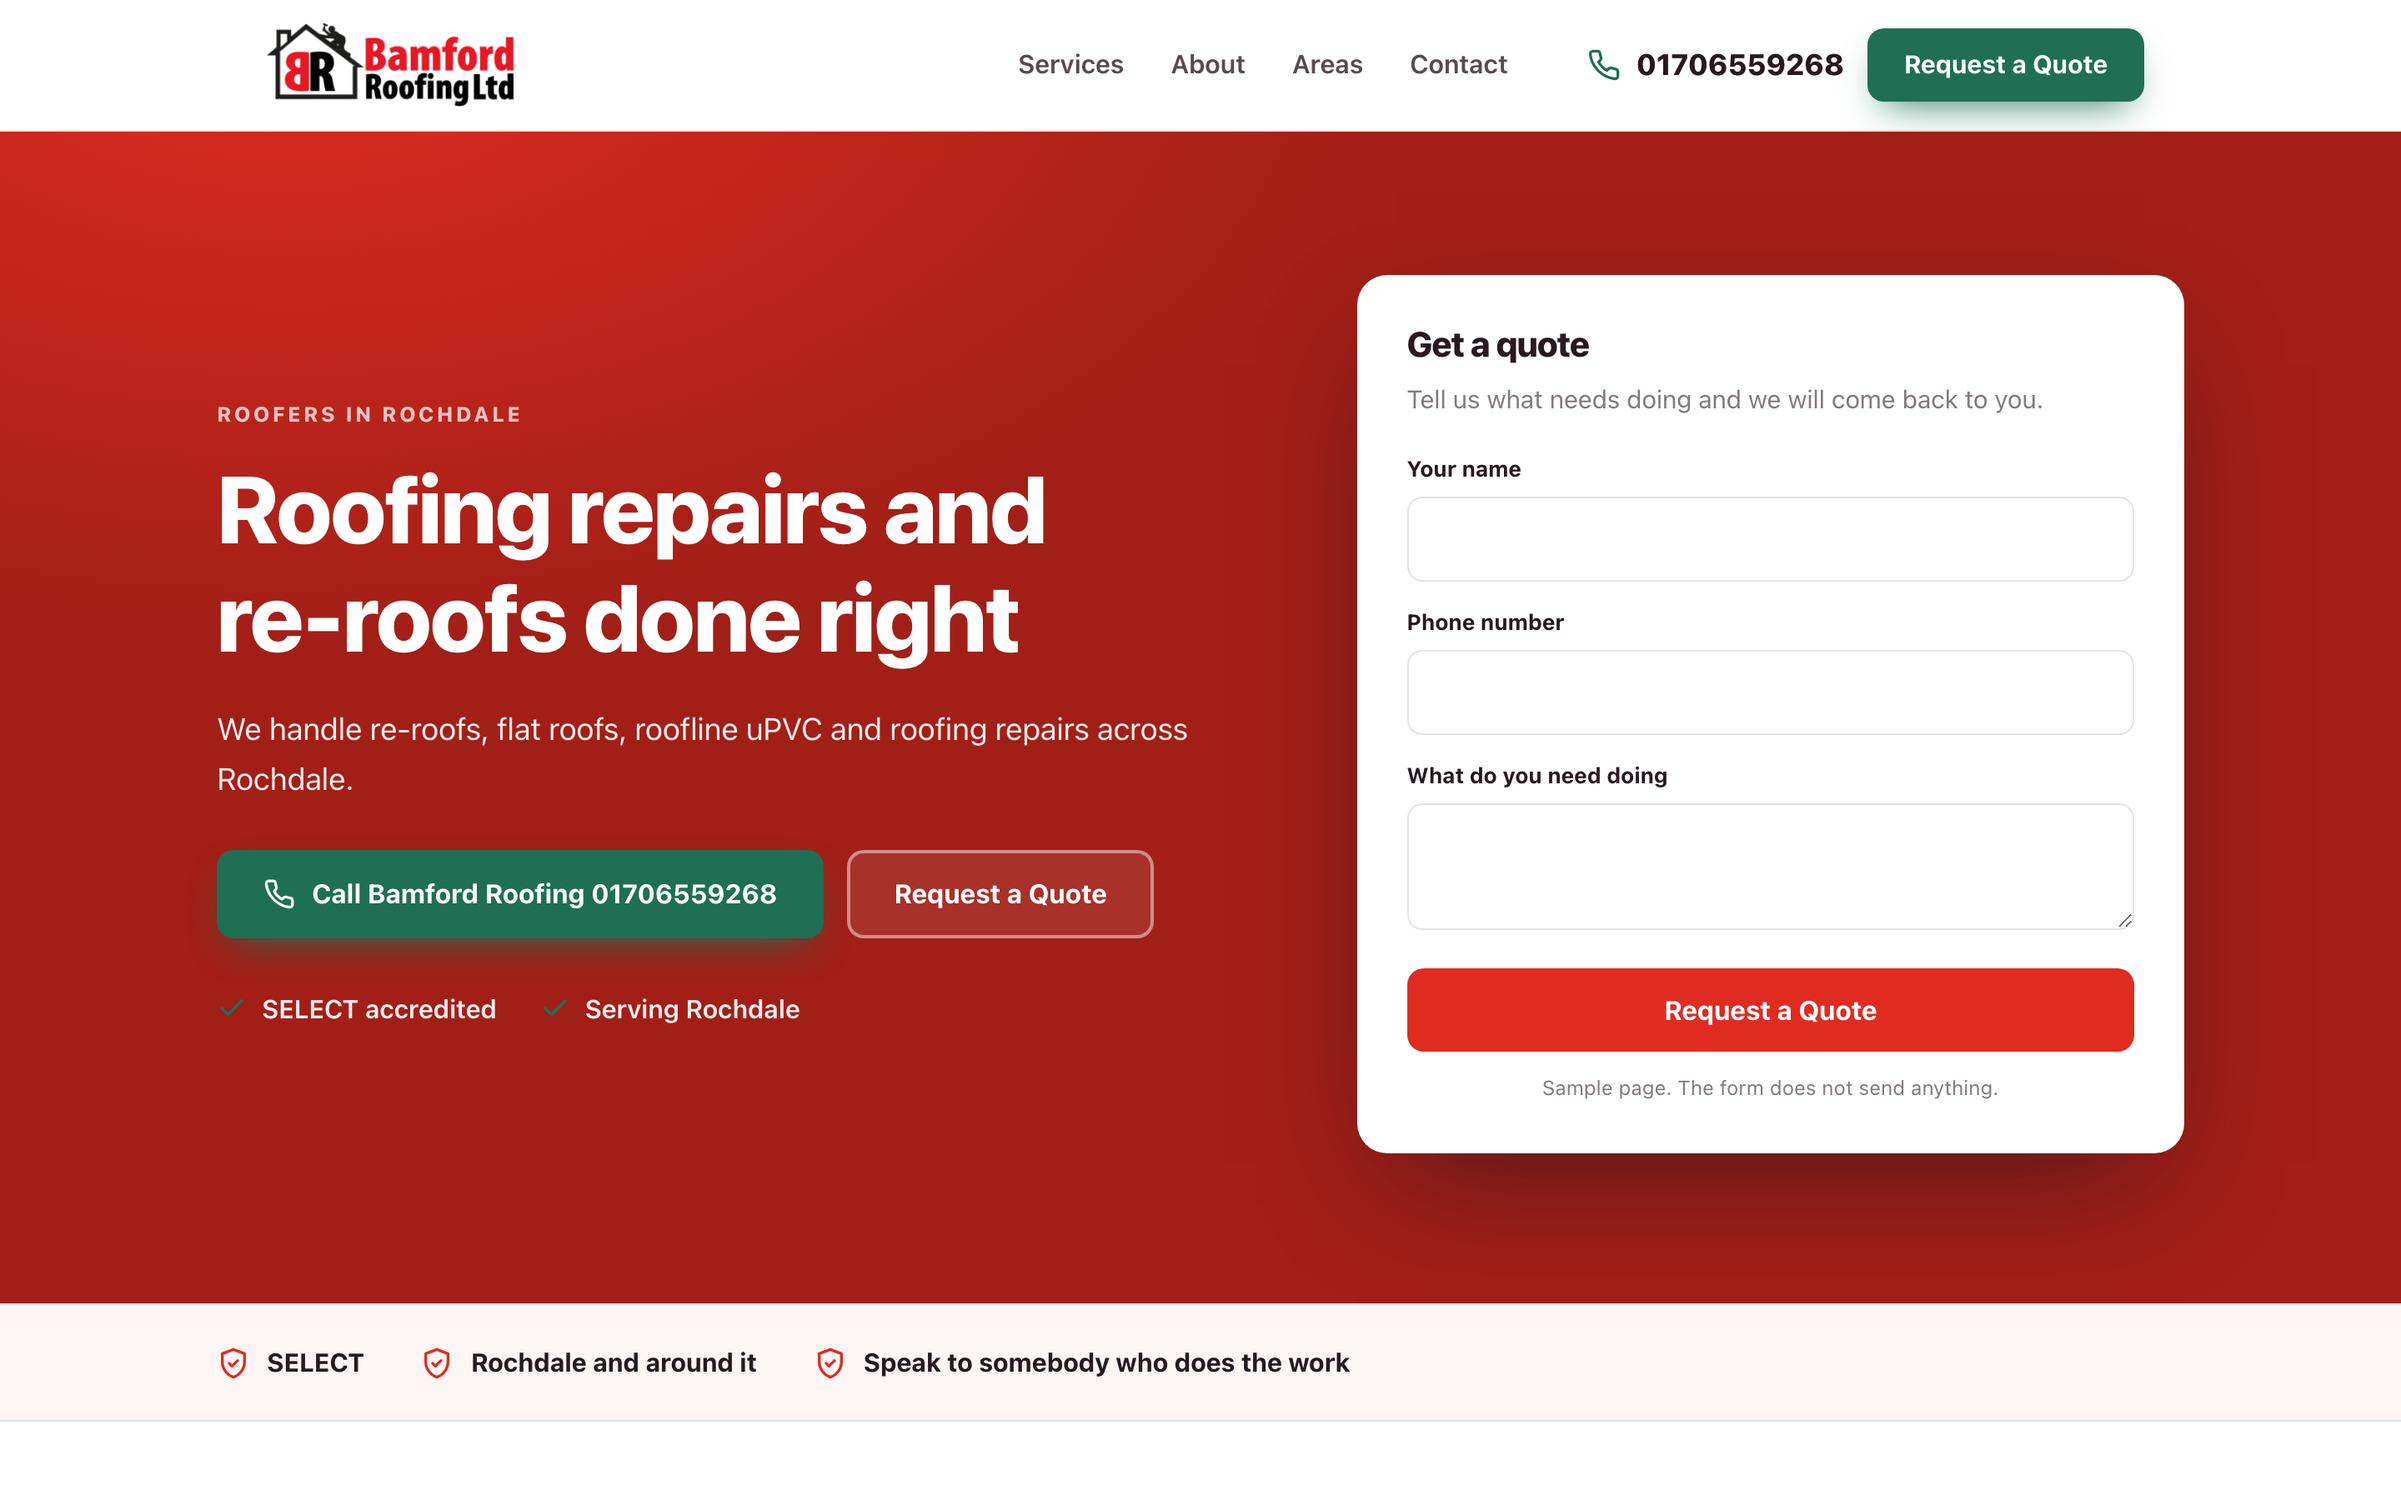
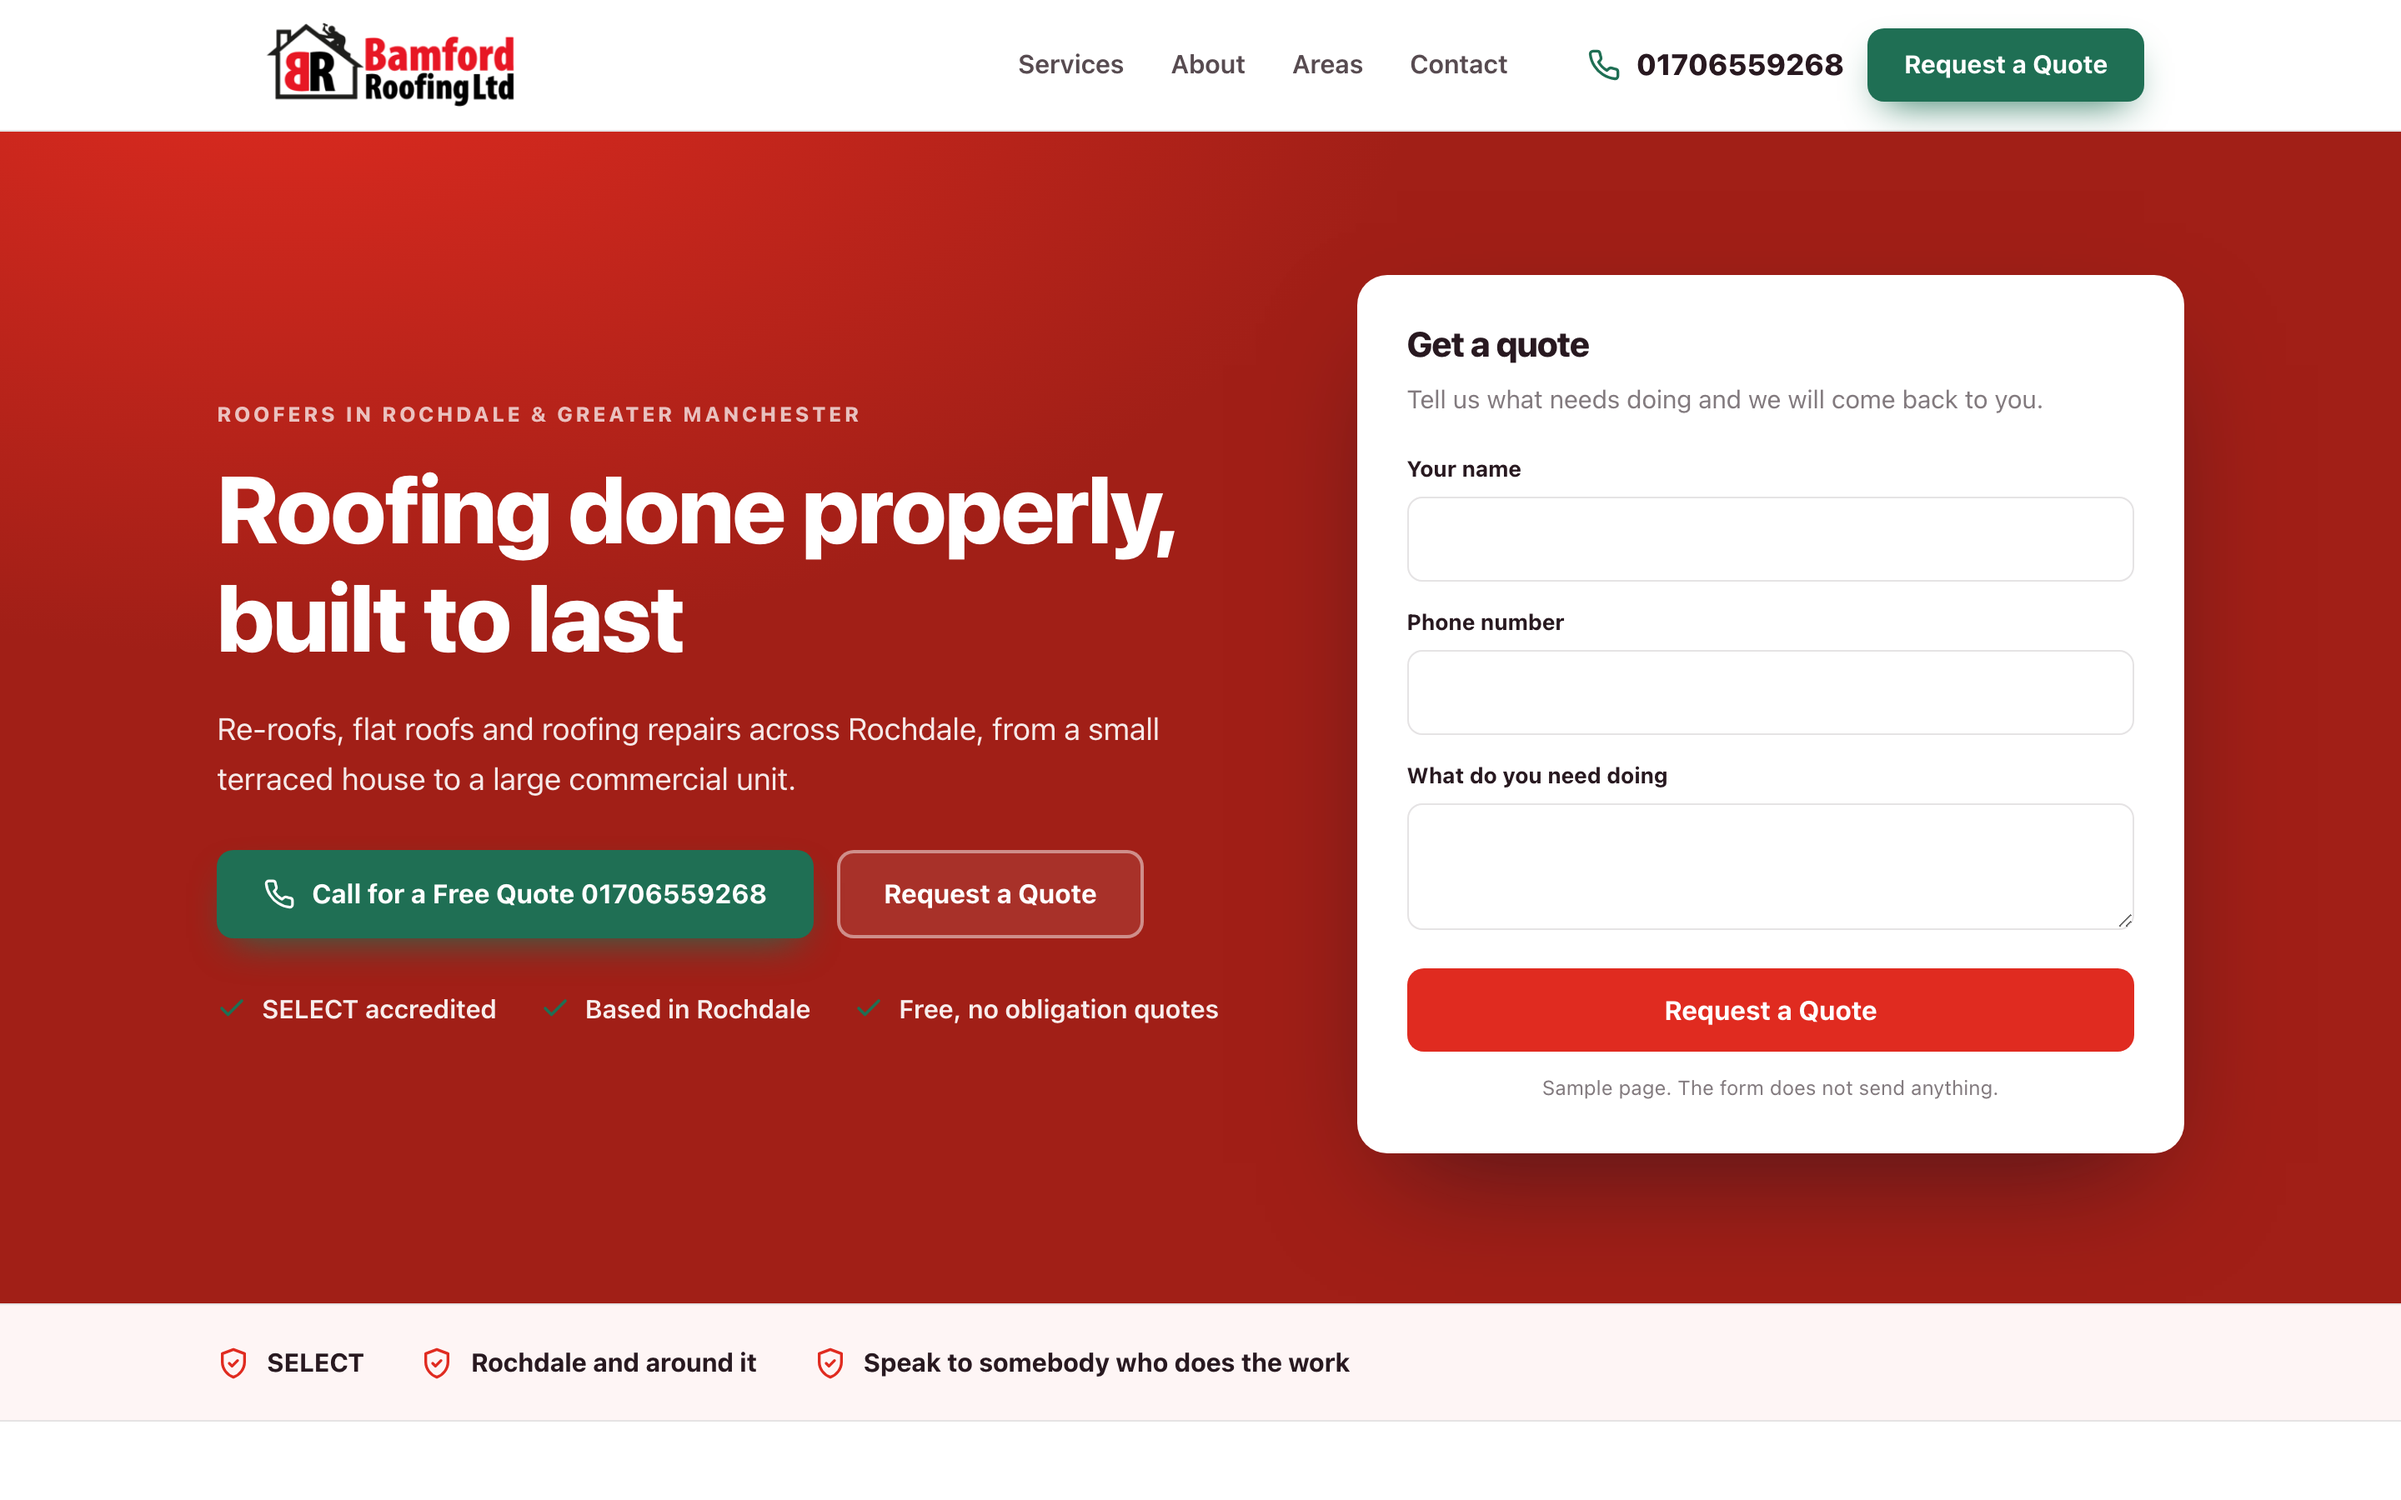
Sample homepage for Bamford Roofing

diff --git a/docs/de1f830fd0/index.html b/docs/de1f830fd0/index.html
@@ -4,12 +4,12 @@
 <meta charset="utf-8">
 <meta name="viewport" content="width=device-width, initial-scale=1">
 <meta name="robots" content="noindex,nofollow">
-<title>Bamford Roofing Rochdale sample homepage</title>
-<meta name="description" content="We handle re-roofs, flat roofs, roofline uPVC and roofing repairs across Rochdale.">
+<title>Bamford Roofing sample homepage</title>
+<meta name="description" content="Re-roofs, flat roofs and roofing repairs across Rochdale, from a small terraced house to a large commercial unit.">
 <link rel="canonical" href="https://markygff.github.io/aso-mockups/de1f830fd0/">
 <meta property="og:type" content="website">
-<meta property="og:title" content="Bamford Roofing Rochdale sample homepage">
-<meta property="og:description" content="We handle re-roofs, flat roofs, roofline uPVC and roofing repairs across Rochdale.">
+<meta property="og:title" content="Bamford Roofing sample homepage">
+<meta property="og:description" content="Re-roofs, flat roofs and roofing repairs across Rochdale, from a small terraced house to a large commercial unit.">
 <meta property="og:url" content="https://markygff.github.io/aso-mockups/de1f830fd0/">
 <style>
 :root{
@@ -52,7 +52,8 @@ p{margin:0}
 .nav{display:flex;gap:28px;margin-left:auto;font-weight:600;font-size:.97rem;color:var(--ink)}
 .nav span{opacity:.78}
 .header-cta{display:flex;align-items:center;gap:14px;margin-left:28px}
-.tel{display:flex;align-items:center;gap:9px;font-weight:800;font-size:1.1rem;color:var(--ink)}
+.tel{display:flex;align-items:center;gap:9px;font-weight:800;font-size:1.1rem;
+     color:var(--ink);text-decoration:none}
 .tel svg{width:20px;height:20px;color:var(--accent)}
 .header-cta .btn{padding:12px 20px;font-size:.95rem}
 
@@ -119,12 +120,12 @@ p{margin:0}
 <header class="header">
   <div class="wrap header-in">
     <div class="brand">
-<img src="https://bamfordroofing.co.uk/wp-content/uploads/2023/07/Logo-021118-White-Trans-299-x-99.png" alt="Bamford Roofing Rochdale logo">    </div>
+<img src="img/logo.png" alt="Bamford Roofing logo">    </div>
     <nav class="nav">
       <span>Services</span><span>About</span><span>Areas</span><span>Contact</span>
     </nav>
     <div class="header-cta">
-      <span class="tel"><svg viewBox="0 0 24 24" fill="none" stroke="currentColor" stroke-width="2" stroke-linecap="round" stroke-linejoin="round" aria-hidden="true"><path d="M22 16.9v3a2 2 0 0 1-2.2 2 19.8 19.8 0 0 1-8.6-3.1 19.5 19.5 0 0 1-6-6 19.8 19.8 0 0 1-3.1-8.7A2 2 0 0 1 4.1 2h3a2 2 0 0 1 2 1.7c.1 1 .4 1.9.7 2.8a2 2 0 0 1-.5 2.1L8.1 9.9a16 16 0 0 0 6 6l1.3-1.2a2 2 0 0 1 2.1-.5c.9.3 1.8.6 2.8.7a2 2 0 0 1 1.7 2z"/></svg><span>01706559268</span></span>
+      <a class="tel" href="tel:+441706559268"><svg viewBox="0 0 24 24" fill="none" stroke="currentColor" stroke-width="2" stroke-linecap="round" stroke-linejoin="round" aria-hidden="true"><path d="M22 16.9v3a2 2 0 0 1-2.2 2 19.8 19.8 0 0 1-8.6-3.1 19.5 19.5 0 0 1-6-6 19.8 19.8 0 0 1-3.1-8.7A2 2 0 0 1 4.1 2h3a2 2 0 0 1 2 1.7c.1 1 .4 1.9.7 2.8a2 2 0 0 1-.5 2.1L8.1 9.9a16 16 0 0 0 6 6l1.3-1.2a2 2 0 0 1 2.1-.5c.9.3 1.8.6 2.8.7a2 2 0 0 1 1.7 2z"/></svg><span>01706559268</span></a>
       <span class="btn btn-accent">Request a Quote</span>
     </div>
   </div>
@@ -134,15 +135,15 @@ p{margin:0}
   <div class="hero-plain"></div>
   <div class="wrap hero-in">
     <div>
-      <p class="eyebrow">Roofers in Rochdale</p>
-      <h1>Roofing repairs and re-roofs done right</h1>
-      <p class="hero-sub">We handle re-roofs, flat roofs, roofline uPVC and roofing repairs across Rochdale.</p>
+      <p class="eyebrow">Roofers in Rochdale &amp; Greater Manchester</p>
+      <h1>Roofing done properly, built to last</h1>
+      <p class="hero-sub">Re-roofs, flat roofs and roofing repairs across Rochdale, from a small terraced house to a large commercial unit.</p>
       <div class="hero-actions">
-        <span class="btn btn-accent"><svg viewBox="0 0 24 24" fill="none" stroke="currentColor" stroke-width="2" stroke-linecap="round" stroke-linejoin="round" aria-hidden="true"><path d="M22 16.9v3a2 2 0 0 1-2.2 2 19.8 19.8 0 0 1-8.6-3.1 19.5 19.5 0 0 1-6-6 19.8 19.8 0 0 1-3.1-8.7A2 2 0 0 1 4.1 2h3a2 2 0 0 1 2 1.7c.1 1 .4 1.9.7 2.8a2 2 0 0 1-.5 2.1L8.1 9.9a16 16 0 0 0 6 6l1.3-1.2a2 2 0 0 1 2.1-.5c.9.3 1.8.6 2.8.7a2 2 0 0 1 1.7 2z"/></svg>Call Bamford Roofing 01706559268</span>
+        <span class="btn btn-accent"><svg viewBox="0 0 24 24" fill="none" stroke="currentColor" stroke-width="2" stroke-linecap="round" stroke-linejoin="round" aria-hidden="true"><path d="M22 16.9v3a2 2 0 0 1-2.2 2 19.8 19.8 0 0 1-8.6-3.1 19.5 19.5 0 0 1-6-6 19.8 19.8 0 0 1-3.1-8.7A2 2 0 0 1 4.1 2h3a2 2 0 0 1 2 1.7c.1 1 .4 1.9.7 2.8a2 2 0 0 1-.5 2.1L8.1 9.9a16 16 0 0 0 6 6l1.3-1.2a2 2 0 0 1 2.1-.5c.9.3 1.8.6 2.8.7a2 2 0 0 1 1.7 2z"/></svg>Call for a Free Quote 01706559268</span>
         <span class="btn btn-ghost">Request a Quote</span>
       </div>
       <ul class="hero-bullets">
-<li><svg viewBox="0 0 24 24" fill="none" stroke="currentColor" stroke-width="2.4" stroke-linecap="round" stroke-linejoin="round" aria-hidden="true"><path d="M20 6 9 17l-5-5"/></svg><span>SELECT accredited</span></li><li><svg viewBox="0 0 24 24" fill="none" stroke="currentColor" stroke-width="2.4" stroke-linecap="round" stroke-linejoin="round" aria-hidden="true"><path d="M20 6 9 17l-5-5"/></svg><span>Serving Rochdale</span></li>      </ul>
+<li><svg viewBox="0 0 24 24" fill="none" stroke="currentColor" stroke-width="2.4" stroke-linecap="round" stroke-linejoin="round" aria-hidden="true"><path d="M20 6 9 17l-5-5"/></svg><span>SELECT accredited</span></li><li><svg viewBox="0 0 24 24" fill="none" stroke="currentColor" stroke-width="2.4" stroke-linecap="round" stroke-linejoin="round" aria-hidden="true"><path d="M20 6 9 17l-5-5"/></svg><span>Based in Rochdale</span></li><li><svg viewBox="0 0 24 24" fill="none" stroke="currentColor" stroke-width="2.4" stroke-linecap="round" stroke-linejoin="round" aria-hidden="true"><path d="M20 6 9 17l-5-5"/></svg><span>Free, no obligation quotes</span></li>      </ul>
     </div>
     <div class="quote-card">
       <h3>Get a quote</h3>
@@ -168,29 +169,29 @@ p{margin:0}
   <div class="wrap">
     <div class="services-head">
       <p class="eyebrow">What we do</p>
-      <h2>Bamford Roofing Rochdale, Rochdale</h2>
-      <p>We handle re-roofs, flat roofs, roofline uPVC and roofing repairs across Rochdale.</p>
+      <h2>Bamford Roofing, Rochdale</h2>
+      <p>Re-roofs, flat roofs and roofing repairs across Rochdale, from a small terraced house to a large commercial unit.</p>
     </div>
     <div class="grid">
       <article class="card">
         <div class="icon"><svg viewBox="0 0 24 24" fill="none" stroke="currentColor" stroke-width="2" stroke-linecap="round" stroke-linejoin="round" aria-hidden="true"><path d="M14.7 6.3a4 4 0 0 0 5.3 5.3l-8 8a3 3 0 0 1-4.2-4.2z"/><path d="m14.7 6.3 3-3"/></svg></div>
-        <h3>Re-Roofs</h3>
-        <p>From a small terrace to a larger job, we handle re-roofs start to finish.</p>
+        <h3>Slate, Stone or Tile Re-Roofs</h3>
+        <p>From a small terraced house to a large commercial unit, done to the highest standard.</p>
       </article>
       <article class="card">
         <div class="icon"><svg viewBox="0 0 24 24" fill="none" stroke="currentColor" stroke-width="2" stroke-linecap="round" stroke-linejoin="round" aria-hidden="true"><path d="M13 2 4 14h7l-1 8 9-12h-7z"/></svg></div>
-        <h3>Roofline uPVC</h3>
-        <p>We fit uPVC fascias, soffits, guttering and downpipes to protect your roofline.</p>
+        <h3>Flat &amp; Liquid Rubber Roofs</h3>
+        <p>Firestone, TPO, EPDM and fibreglass roofing, fitted by trained installers.</p>
       </article>
       <article class="card">
         <div class="icon"><svg viewBox="0 0 24 24" fill="none" stroke="currentColor" stroke-width="2" stroke-linecap="round" stroke-linejoin="round" aria-hidden="true"><path d="M3 10.5 12 3l9 7.5"/><path d="M5 9.5V21h14V9.5"/><path d="M10 21v-6h4v6"/></svg></div>
-        <h3>Flat Roofs</h3>
-        <p>We fit flat and liquid rubber roofing systems built to last.</p>
+        <h3>Roofline uPVC Replacement</h3>
+        <p>Fascias, soffits, guttering, downpipes and dry verge systems, all covered.</p>
       </article>
       <article class="card">
         <div class="icon"><svg viewBox="0 0 24 24" fill="none" stroke="currentColor" stroke-width="2" stroke-linecap="round" stroke-linejoin="round" aria-hidden="true"><path d="M4 20 15 9"/><path d="m14 4 6 6-3 3-6-6z"/><path d="m3 15 6 6"/></svg></div>
         <h3>Roofing Repairs</h3>
-        <p>Slipped tiles, leaking gutters or damp patches, we handle roofing repairs too.</p>
+        <p>Slipped tiles, leaking gutters, rotting fascias or damp patches, sorted.</p>
       </article>
     </div>
   </div>
@@ -198,7 +199,7 @@ p{margin:0}
 
 <footer class="footer">
   <div class="wrap footer-in">
-    <span>Sample built for Bamford Roofing Rochdale from your public website. Not live. Tell us and we delete it.</span>
+    <span>Sample built for Bamford Roofing from your public website. Not live. Tell us and we delete it.</span>
     <span>bamfordroofing.co.uk</span>
   </div>
 </footer>
